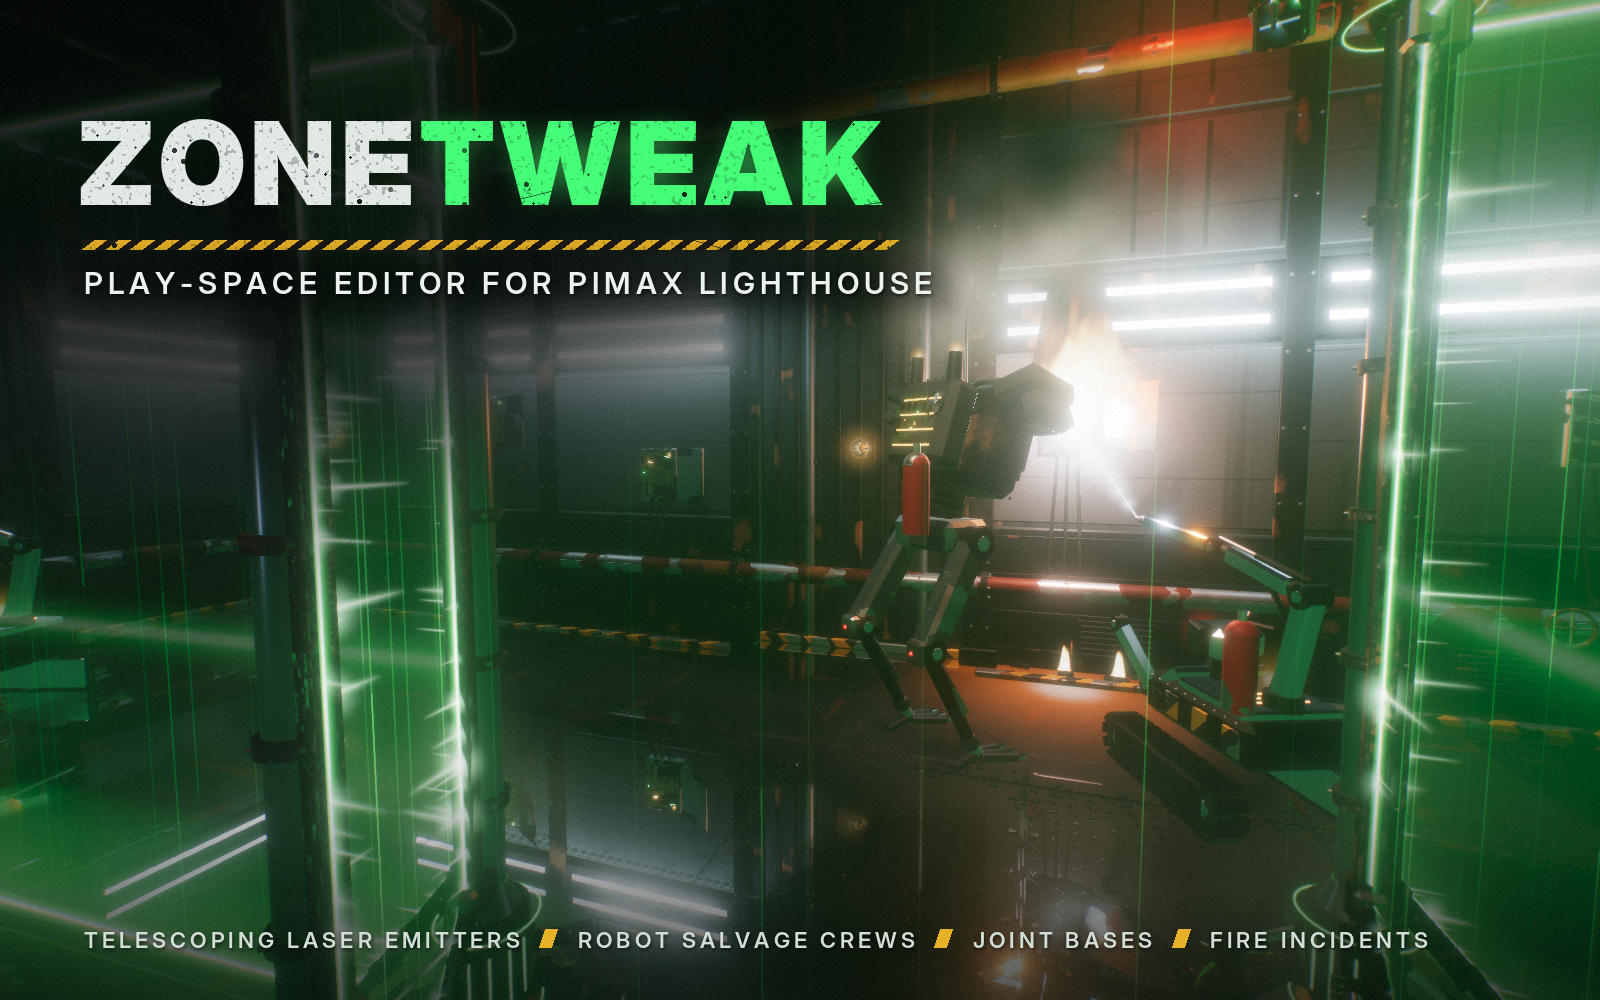
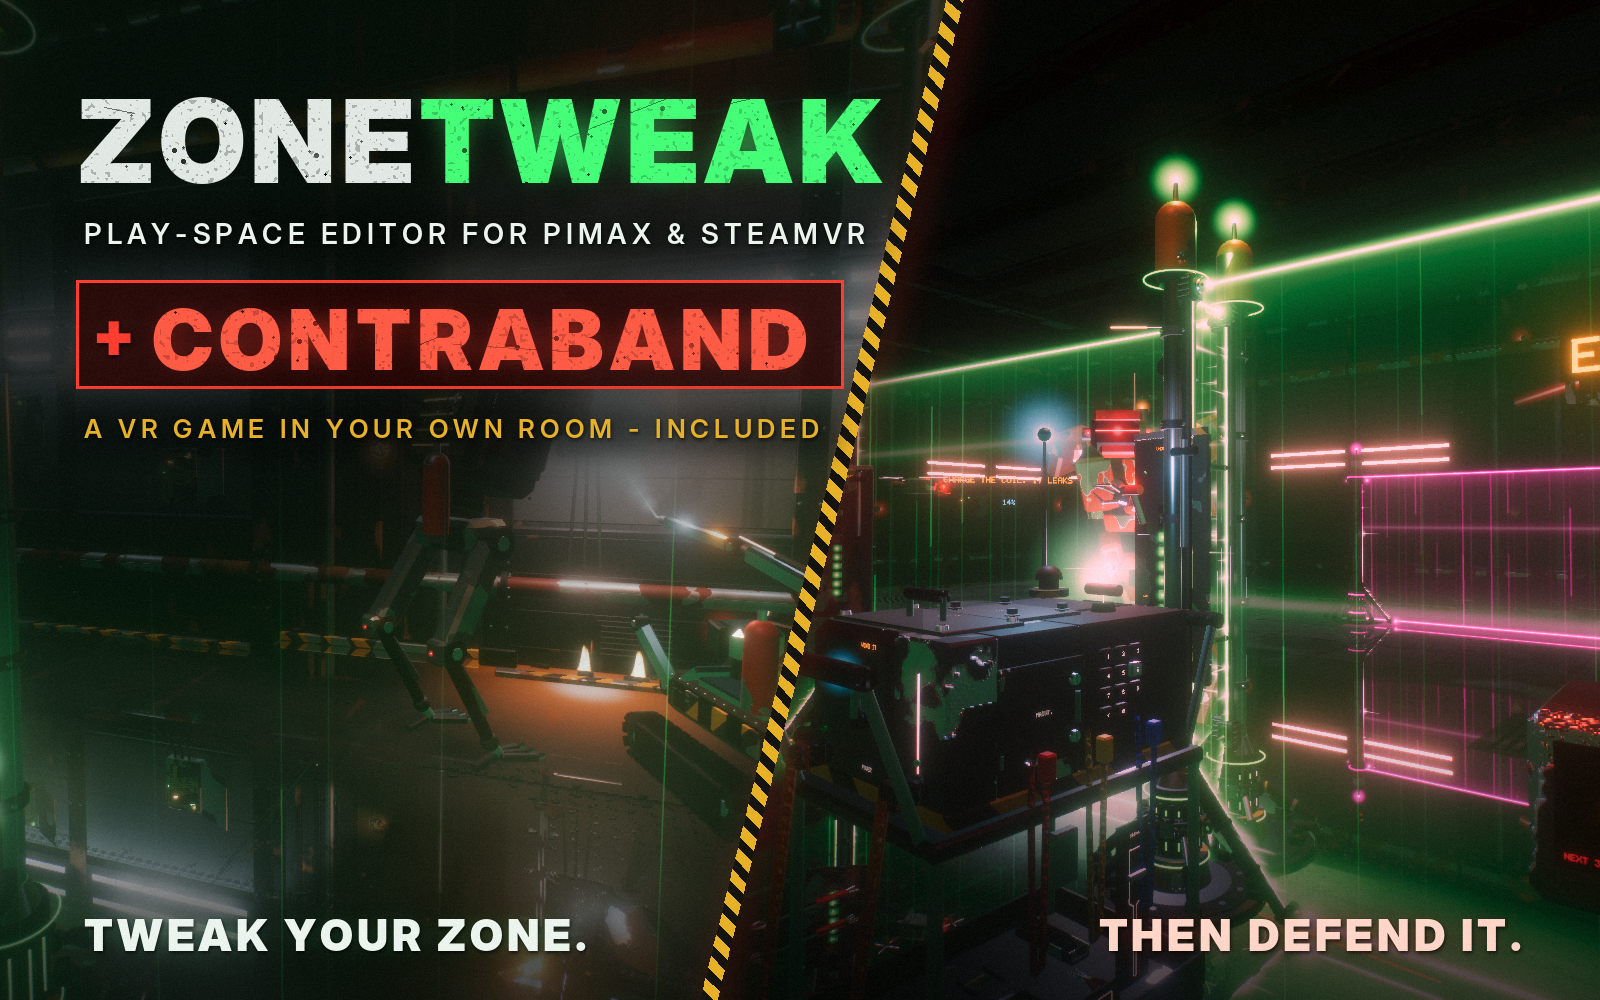
Cover art for v0.99: ZoneTweak + Contraband
Claude-Session: https://claude.ai/code/session_01T1xWomunwoyWUYeuGUgwSf

diff --git a/art/make_art.py b/art/make_art.py
@@ -1,5 +1,6 @@
 # Cover + icon in the in-game look: rusted industrial cell, green laser walls, generator posts.
-# cover_render.png is a frame from the game's own renderer (preview harness).
+# cover_render.png (ZoneTweak) and cover_game.png (a round of Contraband) are frames from the
+# app's own renderer (the preview harness).
 from PIL import Image, ImageDraw, ImageFilter, ImageFont, ImageChops
 import math, random
 
@@ -40,70 +41,131 @@ def grunge_mask(w, h):
     n = noise_tex(w, h, 3, 3).point(lambda v: 255 if v > 40 else 190)
     return ImageChops.multiply(m, n)
 
+RED = (255, 62, 48)
+AMBER = (232, 178, 40)
+
+
+def hazard_band(d, a, b, w, phase=0):
+    """a hazard-striped band from point a to point b, w wide"""
+    ax, ay = a
+    bx, by = b
+    L = math.hypot(bx - ax, by - ay)
+    ux, uy = (bx - ax) / L, (by - ay) / L
+    nx, ny = -uy * w / 2, ux * w / 2
+    d.polygon([(ax + nx, ay + ny), (bx + nx, by + ny), (bx - nx, by - ny), (ax - nx, ay - ny)], fill=(22, 20, 14, 255))
+    step = w * 1.4
+    k = -step + phase
+    while k < L + step:
+        p0 = (ax + ux * k, ay + uy * k)
+        p1 = (ax + ux * (k + step / 2), ay + uy * (k + step / 2))
+        q0 = (p0[0] + ux * w * 0.6, p0[1] + uy * w * 0.6)
+        q1 = (p1[0] + ux * w * 0.6, p1[1] + uy * w * 0.6)
+        d.polygon([(p0[0] + nx, p0[1] + ny), (p1[0] + nx, p1[1] + ny), (q1[0] - nx, q1[1] - ny), (q0[0] - nx, q0[1] - ny)], fill=AMBER + (255,))
+        k += step
+
+
 def cover(W=1600, H=1000):
-    base = Image.open('cover_render.png').convert('RGB').resize((W, H), Image.LANCZOS)
-    img = base.convert('RGBA')
-    # smoke the top-left corner for the title and the bottom edge for the feature line,
-    # leaving the fire crew in the middle clear
+    """ZoneTweak, and the game that comes with it: the editor's cell on the left, a round of
+    Contraband on the right, split on a hazard-striped diagonal."""
+    def shifted(path, dx):
+        # each frame slid so its subject sits in its own half (the robots, the cart)
+        src = Image.open(path).convert('RGB').resize((W, H), Image.LANCZOS)
+        out = Image.new('RGB', (W, H), (0, 0, 0))
+        out.paste(src, (int(dx), 0))
+        return out
+    zone = shifted('cover_render.png', -W * 0.3)
+    game = shifted('cover_game.png', W * 0.22)
+    # the game side graded a little warmer and harder, so the two halves read apart
+    r, g, b = game.split()
+    game = Image.merge('RGB', (r.point(lambda v: min(255, int(v * 1.18 + 6))), g.point(lambda v: int(v * 0.9)), b.point(lambda v: int(v * 0.95))))
+    top, bot = W * 0.6, W * 0.44  # where the seam meets the top and bottom edges
+    m = Image.new('L', (W, H), 0)
+    ImageDraw.Draw(m).polygon([(top, 0), (W, 0), (W, H), (bot, H)], fill=255)
+    img = Image.composite(game, zone, m.filter(ImageFilter.GaussianBlur(1))).convert('RGBA')
+    # smoke behind the title block (top left) and along the bottom for the tagline
     shade = Image.new('L', (W, H), 0)
-    sd_ = ImageDraw.Draw(shade)
-    sd_.ellipse([-W * 0.5, -H * 0.7, W * 0.64, H * 0.5], fill=215)
-    sd_.rectangle([0, H * 0.88, W, H], fill=190)
+    sd = ImageDraw.Draw(shade)
+    sd.ellipse([-W * 0.45, -H * 0.8, W * 0.66, H * 0.62], fill=205)
+    sd.rectangle([0, H * 0.86, W, H], fill=200)
     shade = shade.filter(ImageFilter.GaussianBlur(90))
-    img = Image.composite(Image.new('RGBA', (W, H), (3, 7, 5, 255)), img, shade)
+    img = Image.composite(Image.new('RGBA', (W, H), (3, 6, 5, 255)), img, shade)
     vig = Image.new('L', (W, H), 0)
     ImageDraw.Draw(vig).ellipse([-W * 0.25, -H * 0.3, W * 1.25, H * 1.3], fill=255)
     vig = vig.filter(ImageFilter.GaussianBlur(160))
     img = Image.composite(img, Image.new('RGBA', (W, H), (0, 0, 0, 255)), vig)
-    # title
-    layer = Image.new('RGBA', (W, H), (0, 0, 0, 0))
-    d = ImageDraw.Draw(layer)
-    ft = ImageFont.truetype(F_BLACK, 116)
-    fs = ImageFont.truetype(F_MED, 30)
-    x0, y0 = 78, 92
-    x = tracked(d, (x0, y0), "ZONE", ft, (226, 232, 228, 255), 5)
-    tracked(d, (x, y0), "TWEAK", ft, GREEN + (255,), 5)
-    tw = text_width(d, "ZONETWEAK", ft, 5)
-    ry = y0 + 148
-    d.rectangle([x0 + 4, ry, x0 + tw, ry + 9], fill=(28, 26, 18, 255))
-    for k in range(0, int(tw), 24):
-        d.polygon([(x0 + 4 + k, ry + 9), (x0 + 4 + k + 12, ry), (x0 + 4 + k + 24, ry), (x0 + 4 + k + 12, ry + 9)], fill=(232, 178, 40, 255))
-    a = ImageChops.multiply(layer.getchannel('A'), grunge_mask(W, H))
-    layer.putalpha(a)
-    glow = Image.new('RGBA', (W, H), (0, 0, 0, 0))
-    tracked(ImageDraw.Draw(glow), (x, y0), "TWEAK", ft, GREEN + (170,), 5)
-    img = Image.alpha_composite(img, glow.filter(ImageFilter.GaussianBlur(16)))
-    img = Image.alpha_composite(img, layer)
+    # the seam: a hazard band with a red glow on the game side
+    sg = Image.new('RGBA', (W, H), (0, 0, 0, 0))
+    ImageDraw.Draw(sg).line([(top + 8, -10), (bot + 8, H + 10)], fill=RED + (150,), width=26)
+    img = Image.alpha_composite(img, sg.filter(ImageFilter.GaussianBlur(22)))
+    band = Image.new('RGBA', (W, H), (0, 0, 0, 0))
+    hazard_band(ImageDraw.Draw(band), (top, -20), (bot, H + 20), 16)
+    img = Image.alpha_composite(img, band)
 
-    def clean_text(img, xy, text, font, fill, track, plate_pad=None):
+    def clean_text(img, xy, text, font, fill, track, plate_pad=None, glow=None):
         dd = ImageDraw.Draw(img)
         w = text_width(dd, text, font, track)
         x, y = xy
         if plate_pad:
             pl = Image.new('RGBA', (W, H), (0, 0, 0, 0))
-            ImageDraw.Draw(pl).rectangle([x - plate_pad, y - 6, x + w + plate_pad, y + font.size + 14], fill=(2, 6, 4, 110))
+            ImageDraw.Draw(pl).rectangle([x - plate_pad, y - 6, x + w + plate_pad, y + font.size + 14], fill=(2, 6, 4, 120))
             img = Image.alpha_composite(img, pl.filter(ImageFilter.GaussianBlur(12)))
+        if glow:
+            gl = Image.new('RGBA', (W, H), (0, 0, 0, 0))
+            tracked(ImageDraw.Draw(gl), (x, y), text, font, glow, track)
+            img = Image.alpha_composite(img, gl.filter(ImageFilter.GaussianBlur(14)))
         sh = Image.new('RGBA', (W, H), (0, 0, 0, 0))
-        tracked(ImageDraw.Draw(sh), (x + 1, y + 2), text, font, (0, 0, 0, 160), track)
+        tracked(ImageDraw.Draw(sh), (x + 1, y + 2), text, font, (0, 0, 0, 170), track)
         img = Image.alpha_composite(img, sh.filter(ImageFilter.GaussianBlur(2)))
         tracked(ImageDraw.Draw(img), (x, y), text, font, fill, track)
         return img, w
 
-    img, _ = clean_text(img, (x0 + 6, ry + 24), "PLAY-SPACE EDITOR FOR PIMAX LIGHTHOUSE", fs, (236, 244, 238, 255), 5, 14)
+    # ZONETWEAK, grunged, the TWEAK glowing green
+    layer = Image.new('RGBA', (W, H), (0, 0, 0, 0))
+    d = ImageDraw.Draw(layer)
+    ft = ImageFont.truetype(F_BLACK, 116)
+    x0, y0 = 78, 70
+    x = tracked(d, (x0, y0), "ZONE", ft, (226, 232, 228, 255), 5)
+    tracked(d, (x, y0), "TWEAK", ft, GREEN + (255,), 5)
+    layer.putalpha(ImageChops.multiply(layer.getchannel('A'), grunge_mask(W, H)))
+    glow = Image.new('RGBA', (W, H), (0, 0, 0, 0))
+    tracked(ImageDraw.Draw(glow), (x, y0), "TWEAK", ft, GREEN + (170,), 5)
+    img = Image.alpha_composite(img, glow.filter(ImageFilter.GaussianBlur(16)))
+    img = Image.alpha_composite(img, layer)
+    fs = ImageFont.truetype(F_MED, 28)
+    img, _ = clean_text(img, (x0 + 6, y0 + 146), "PLAY-SPACE EDITOR FOR PIMAX & STEAMVR", fs, (236, 244, 238, 255), 5, 14)
 
-    # feature line along the bottom: what lives in the cell now
-    ff = ImageFont.truetype(F_MED, 22)
-    feats = ["TELESCOPING LASER EMITTERS", "ROBOT SALVAGE CREWS", "JOINT BASES", "FIRE INCIDENTS"]
-    fx_, fy = x0 + 6, H - 74
-    for i, f in enumerate(feats):
-        if i:
-            ImageDraw.Draw(img).polygon([(fx_ + 8, fy + 3), (fx_ + 20, fy + 3), (fx_ + 14, fy + 21), (fx_ + 2, fy + 21)], fill=(232, 178, 40, 255))
-            fx_ += 40
-        img, w = clean_text(img, (fx_, fy), f, ff, (210, 222, 214, 255), 4)
-        fx_ += w + 18
+    # + CONTRABAND, a stencilled red plate under it
+    fc = ImageFont.truetype(F_BLACK, 84)
+    fsm = ImageFont.truetype(F_MED, 26)
+    cy = y0 + 214
+    plus = ImageFont.truetype(F_BLACK, 64)
+    pl = Image.new('RGBA', (W, H), (0, 0, 0, 0))
+    pd = ImageDraw.Draw(pl)
+    cw = text_width(pd, "CONTRABAND", fc, 6)
+    pd.rectangle([x0 - 2, cy - 4, x0 + 84 + cw + 26, cy + 104], fill=(44, 6, 4, 210))
+    pd.rectangle([x0 - 2, cy - 4, x0 + 84 + cw + 26, cy + 104], outline=RED + (255,), width=3)
+    img = Image.alpha_composite(img, pl)
+    img, _ = clean_text(img, (x0 + 14, cy + 10), "+", plus, RED + (255,), 0)
+    cl = Image.new('RGBA', (W, H), (0, 0, 0, 0))
+    tracked(ImageDraw.Draw(cl), (x0 + 74, cy + 4), "CONTRABAND", fc, (255, 92, 70, 255), 6)
+    cl.putalpha(ImageChops.multiply(cl.getchannel('A'), grunge_mask(W, H)))
+    cg = Image.new('RGBA', (W, H), (0, 0, 0, 0))
+    tracked(ImageDraw.Draw(cg), (x0 + 74, cy + 4), "CONTRABAND", fc, RED + (190,), 6)
+    img = Image.alpha_composite(img, cg.filter(ImageFilter.GaussianBlur(14)))
+    img = Image.alpha_composite(img, cl)
+    img, _ = clean_text(img, (x0 + 6, cy + 128), "A VR GAME IN YOUR OWN ROOM - INCLUDED", fsm, AMBER + (255,), 5, 14)
+
+    # the tagline along the bottom, split across the seam: edit it on the left, defend it on the right
+    fb = ImageFont.truetype(F_BLACK, 44)
+    by = H - 92
+    img, _ = clean_text(img, (x0 + 6, by), "TWEAK YOUR ZONE.", fb, (236, 244, 238, 255), 4, glow=GREEN + (120,))
+    dd = ImageDraw.Draw(img)
+    tw = text_width(dd, "THEN DEFEND IT.", fb, 4)
+    img, _ = clean_text(img, (W - 78 - tw, by), "THEN DEFEND IT.", fb, (255, 214, 200, 255), 4, glow=RED + (150,))
     g = noise_tex(W, H, 1, 11).point(lambda v: int((v - 128) * 0.06 + 128))
     img = Image.blend(img.convert('RGB'), ImageChops.add(img.convert('RGB'), Image.merge('RGB', [g, g, g]), 1, -128), 0.5)
     return img
+
 
 def icon(N=256):
     S = 4

diff --git a/preview_main.go b/preview_main.go
@@ -411,6 +411,13 @@ func main() {
 		m := G.poleMount()
 		fmt.Fprintf(os.Stderr, "pole head %.2f,%.2f,%.2f, bracket on generator %d at %.2f,%.2f\n", hd.x, hd.y, hd.z, m.gen, m.at.X, m.at.Z)
 	}
+	if os.Getenv("ROBOTS") != "" {
+		for _, b := range G.r.Robots {
+			if b.Alive() {
+				fmt.Fprintf(os.Stderr, "robot %d kind %d state %d at %.2f,%.2f\n", b.ID, b.Kind, b.State, b.Pos.X, b.Pos.Z)
+			}
+		}
+	}
 	for _, d := range G.r.Doors {
 		fmt.Fprintf(os.Stderr, "door %s wall %.2f,%.2f out %.2f,%.2f\n", d.Name, d.Wall.X, d.Wall.Z, d.Out.X, d.Out.Z)
 	}
